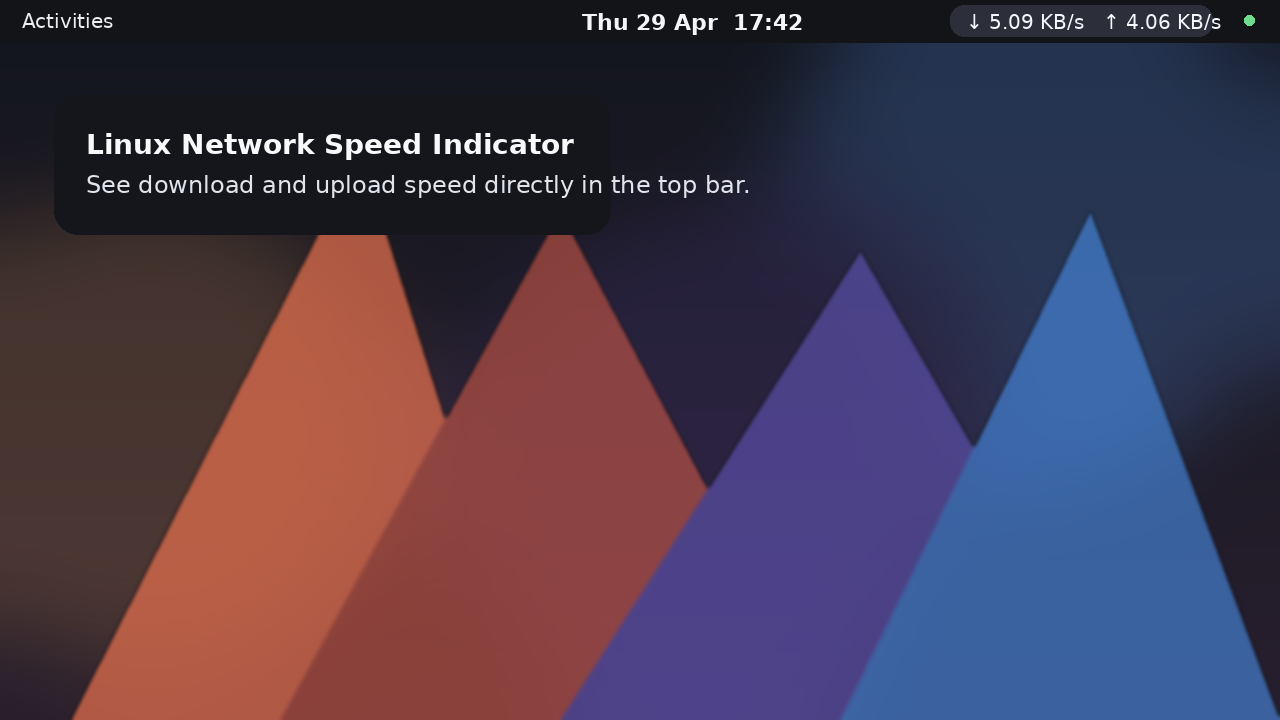
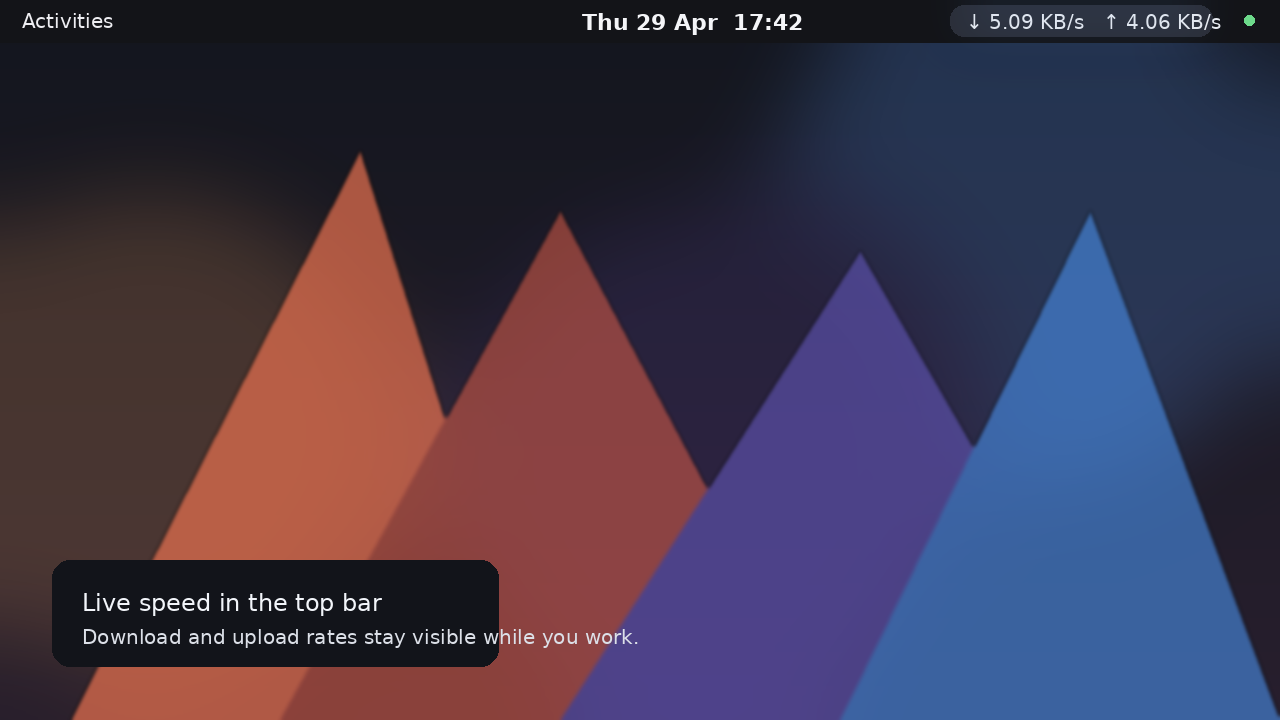
Refine AppStream screenshots

Changed region(s): [[0.0312, 0.7639, 0.5, 0.9472], [0.0312, 0.1833, 0.5938, 0.3361], [0.4062, 0.3056, 0.4688, 0.3361]]

diff --git a/scripts/render_appstream_screenshots.py b/scripts/render_appstream_screenshots.py
@@ -24,10 +24,10 @@ def font(name: str, size: int) -> ImageFont.FreeTypeFont | ImageFont.ImageFont:
 
 FONT_SMALL = font('DejaVuSans.ttf', 20)
 FONT_BODY = font('DejaVuSans.ttf', 24)
-FONT_LABEL = font('DejaVuSans.ttf', 28)
-FONT_BOLD = font('DejaVuSans-Bold.ttf', 28)
+FONT_LABEL = font('DejaVuSans.ttf', 22)
+FONT_CHECK = font('DejaVuSans.ttf', 24)
 FONT_CLOCK = font('DejaVuSans-Bold.ttf', 22)
-FONT_CHEVRON = font('DejaVuSans.ttf', 22)
+FONT_CHEVRON = font('DejaVuSans.ttf', 20)
 
 
 def make_background() -> Image.Image:
@@ -91,25 +91,36 @@ def add_shadow(base: Image.Image, bounds: tuple[int, int, int, int], radius: int
     base.alpha_composite(shadow)
 
 
+def add_focus_glow(base: Image.Image, bounds: tuple[int, int, int, int], color: tuple[int, int, int, int]) -> None:
+    glow = Image.new('RGBA', base.size, (0, 0, 0, 0))
+    glow_draw = ImageDraw.Draw(glow)
+    glow_draw.rounded_rectangle(bounds, radius=18, fill=color)
+    glow = glow.filter(ImageFilter.GaussianBlur(26))
+    base.alpha_composite(glow)
+
+
 def build_overview() -> Image.Image:
     image = make_background()
     draw_top_bar(image, '↓ 5.09 KB/s   ↑ 4.06 KB/s')
 
-    overlay = ImageDraw.Draw(image)
-    overlay.rounded_rectangle((54, 94, 610, 234), radius=24, fill=(20, 22, 28, 126))
-    overlay.text((86, 128), 'Linux Network Speed Indicator', font=FONT_BOLD, fill=(248, 249, 251, 255))
-    overlay.text((86, 170), 'See download and upload speed directly in the top bar.', font=FONT_BODY, fill=(225, 228, 235, 255))
+    add_focus_glow(image, (944, 4, 1220, 38), (98, 167, 255, 54))
+
+    draw = ImageDraw.Draw(image)
+    draw.rounded_rectangle((52, 560, 498, 666), radius=18, fill=(18, 20, 26, 156))
+    draw.text((82, 588), 'Live speed in the top bar', font=FONT_BODY, fill=(242, 245, 250, 255))
+    draw.text((82, 625), 'Download and upload rates stay visible while you work.', font=FONT_SMALL, fill=(220, 224, 232, 255))
     return image.convert('RGB')
 
 
 def build_menu() -> Image.Image:
     image = make_background()
     draw_top_bar(image, '↓ 46.3 KB/s   ↑ 3.29 KB/s')
-    add_shadow(image, (884, 58, 1186, 470), radius=24)
+    add_focus_glow(image, (944, 4, 1220, 38), (98, 167, 255, 44))
+    add_shadow(image, (900, 72, 1170, 438), radius=22)
 
     draw = ImageDraw.Draw(image)
-    panel = (894, 68, 1180, 460)
-    draw.rounded_rectangle(panel, radius=24, fill=(52, 54, 63, 248))
+    panel = (908, 80, 1162, 430)
+    draw.rounded_rectangle(panel, radius=22, fill=(60, 63, 74, 248))
 
     rows = [
         ('Units', True, False),
@@ -119,24 +130,24 @@ def build_menu() -> Image.Image:
         ('Quit Speed Meter', False, False),
     ]
 
-    y = 116
+    y = 126
     for index, (label, has_chevron, checked) in enumerate(rows):
         if index == 4:
-            draw.line((924, y - 20, 1132, y - 20), fill=(111, 114, 126, 160), width=1)
-            y += 16
+            draw.line((936, y - 16, 1134, y - 16), fill=(122, 126, 139, 148), width=1)
+            y += 14
 
         if checked:
-            draw.text((930, y - 2), '✓', font=FONT_LABEL, fill=(244, 246, 249, 255))
-            text_x = 965
+            draw.text((934, y - 3), '✓', font=FONT_CHECK, fill=(244, 246, 249, 255))
+            text_x = 966
         else:
-            text_x = 936
+            text_x = 938
 
         draw.text((text_x, y), label, font=FONT_LABEL, fill=(248, 248, 251, 255))
 
         if has_chevron:
-            draw.text((1134, y + 5), '›', font=FONT_CHEVRON, fill=(221, 224, 231, 255))
+            draw.text((1128, y + 3), '›', font=FONT_CHEVRON, fill=(221, 224, 231, 255))
 
-        y += 67
+        y += 64
 
     return image.convert('RGB')
 
